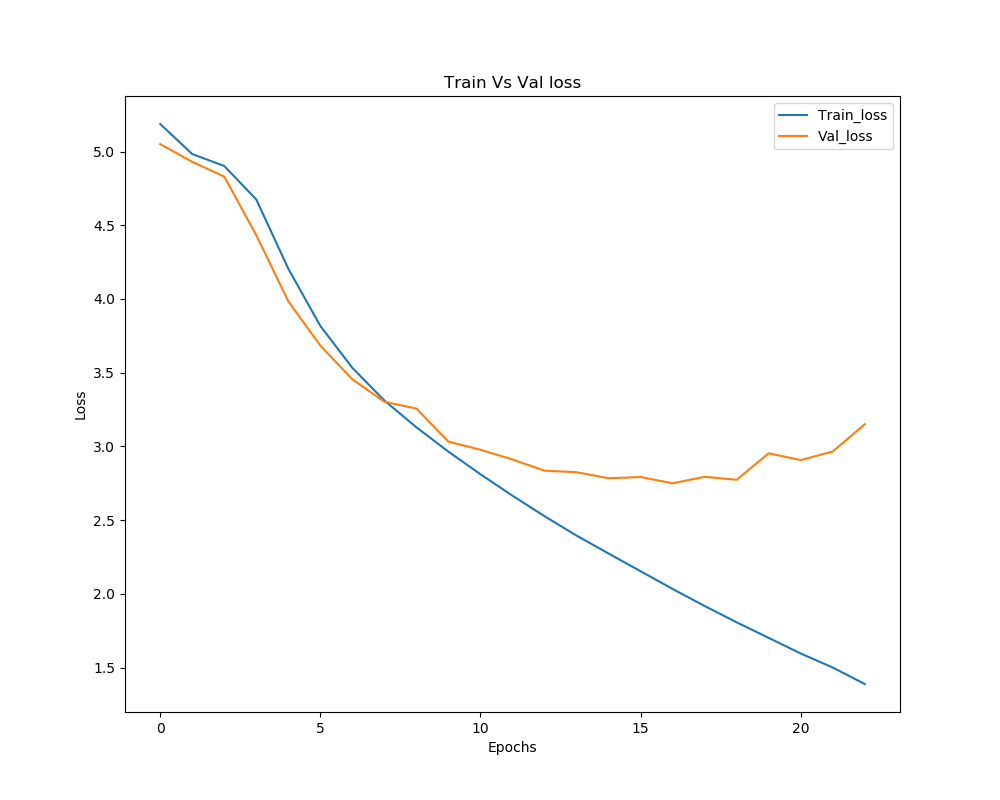
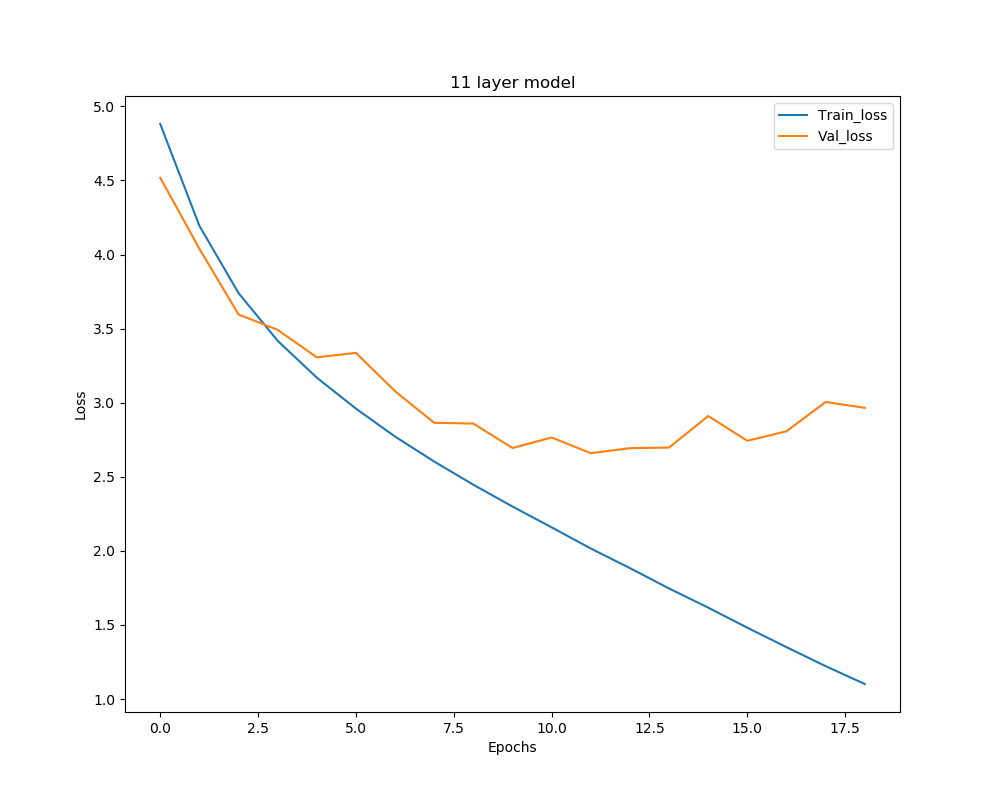
result  update

diff --git a/train.py b/train.py
@@ -73,7 +73,10 @@ def train(opt):
 
     def plot_fig(train_loss, val_loss):
         plt.figure(figsize=(10,8))
-        plt.title("{} layer model".format(opt.depth))
+        if opt.conv1_1 and opt.depth==16:
+            plt.title("{}_C11 layer model".format(opt.depth))
+        else:
+            plt.title("{} layer model".format(opt.depth))
         plt.plot(train_loss, label= 'Train_loss')
         plt.plot(val_loss, label= 'Val_loss')
         plt.xlabel("Epochs")

diff --git a/README.md b/README.md
@@ -44,13 +44,13 @@ The models were trained on GPU, which is having a configuration of Nvidia-GTX 10
 
 
 <p>
-  <img src="figures/trainVal_loss_11.png" width="300" title="11 layer model">
-  <img src="figures/trainVal_loss_13.png" width="300" title="11 layer model">
+  <img src="figures/trainVal_loss_11.png" width="500" title="11 layer model">
+  <img src="figures/trainVal_loss_13.png" width="500" title="11 layer model">
 </p>
 
 <p>
-  <img src="figures/trainVal_loss_16.png" width="300" title="11 layer model">
-  <img src="figures/trainVal_loss_13.png" width="300" title="11 layer model">
+  <img src="figures/trainVal_loss_16.png" width="500" title="11 layer model">
+  <img src="figures/trainVal_loss_19.png" width="500" title="11 layer model">
 </p>
 
 
@@ -65,7 +65,7 @@ Coming soon
 | 13 layers         | 0.5133       |  0.4001    |         |
 | 16 layers         |  0.5140      |   0.3809     |         |
 | 16 layers, Cf:1x1 |          |        |         |
-| 19 layers         |          |        |         |
+| 19 layers         |    0.4890      | 0.3563       |         |
 
 <b>Loss:</b>
 Coming soon
@@ -76,7 +76,7 @@ Coming soon
 | 13 layers         |  1.85        | 2.57       |         |
 | 16 layers         |  1.83        |    2.64    |         |
 | 16 layers, Cf:1x1 |          |        |         |
-| 19 layers         |          |        |         |
+| 19 layers         |      1.92    |   2.79     |         |
 
 ### Usage
 
